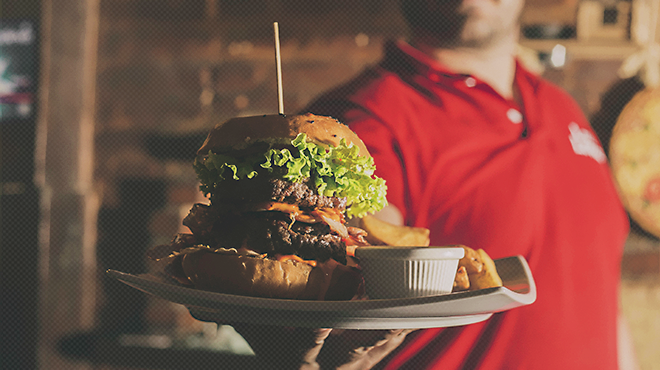
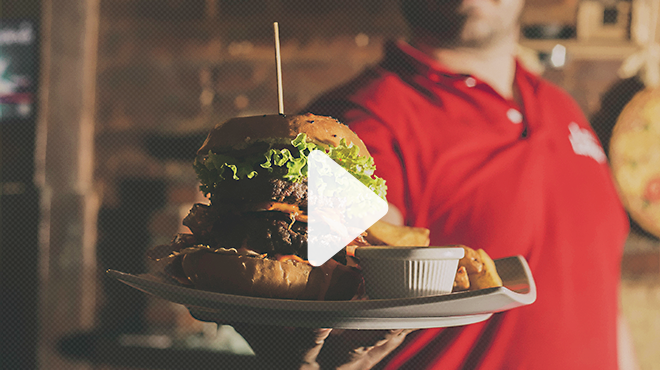
Всё кроме gulp - готово

Changed region(s): [[0.4545, 0.3865, 0.6061, 0.7135]]

diff --git a/css/main.css b/css/main.css
@@ -2128,7 +2128,7 @@ img {
 }
 
 .player-section {
-  background: url("../../img/bg/player-bg.png") center center/cover no-repeat;
+  background: url("../img/bg/player-bg.png") center center/cover no-repeat;
   display: flex;
   align-items: center;
 }
@@ -2148,7 +2148,7 @@ img {
   left: 0;
   right: 0;
   bottom: 0;
-  background: url("../../img/content/player/player.png") center center/cover no-repeat;
+  background: url("/../img/content/player/player.png") center center/cover no-repeat;
   cursor: pointer;
 }
 
